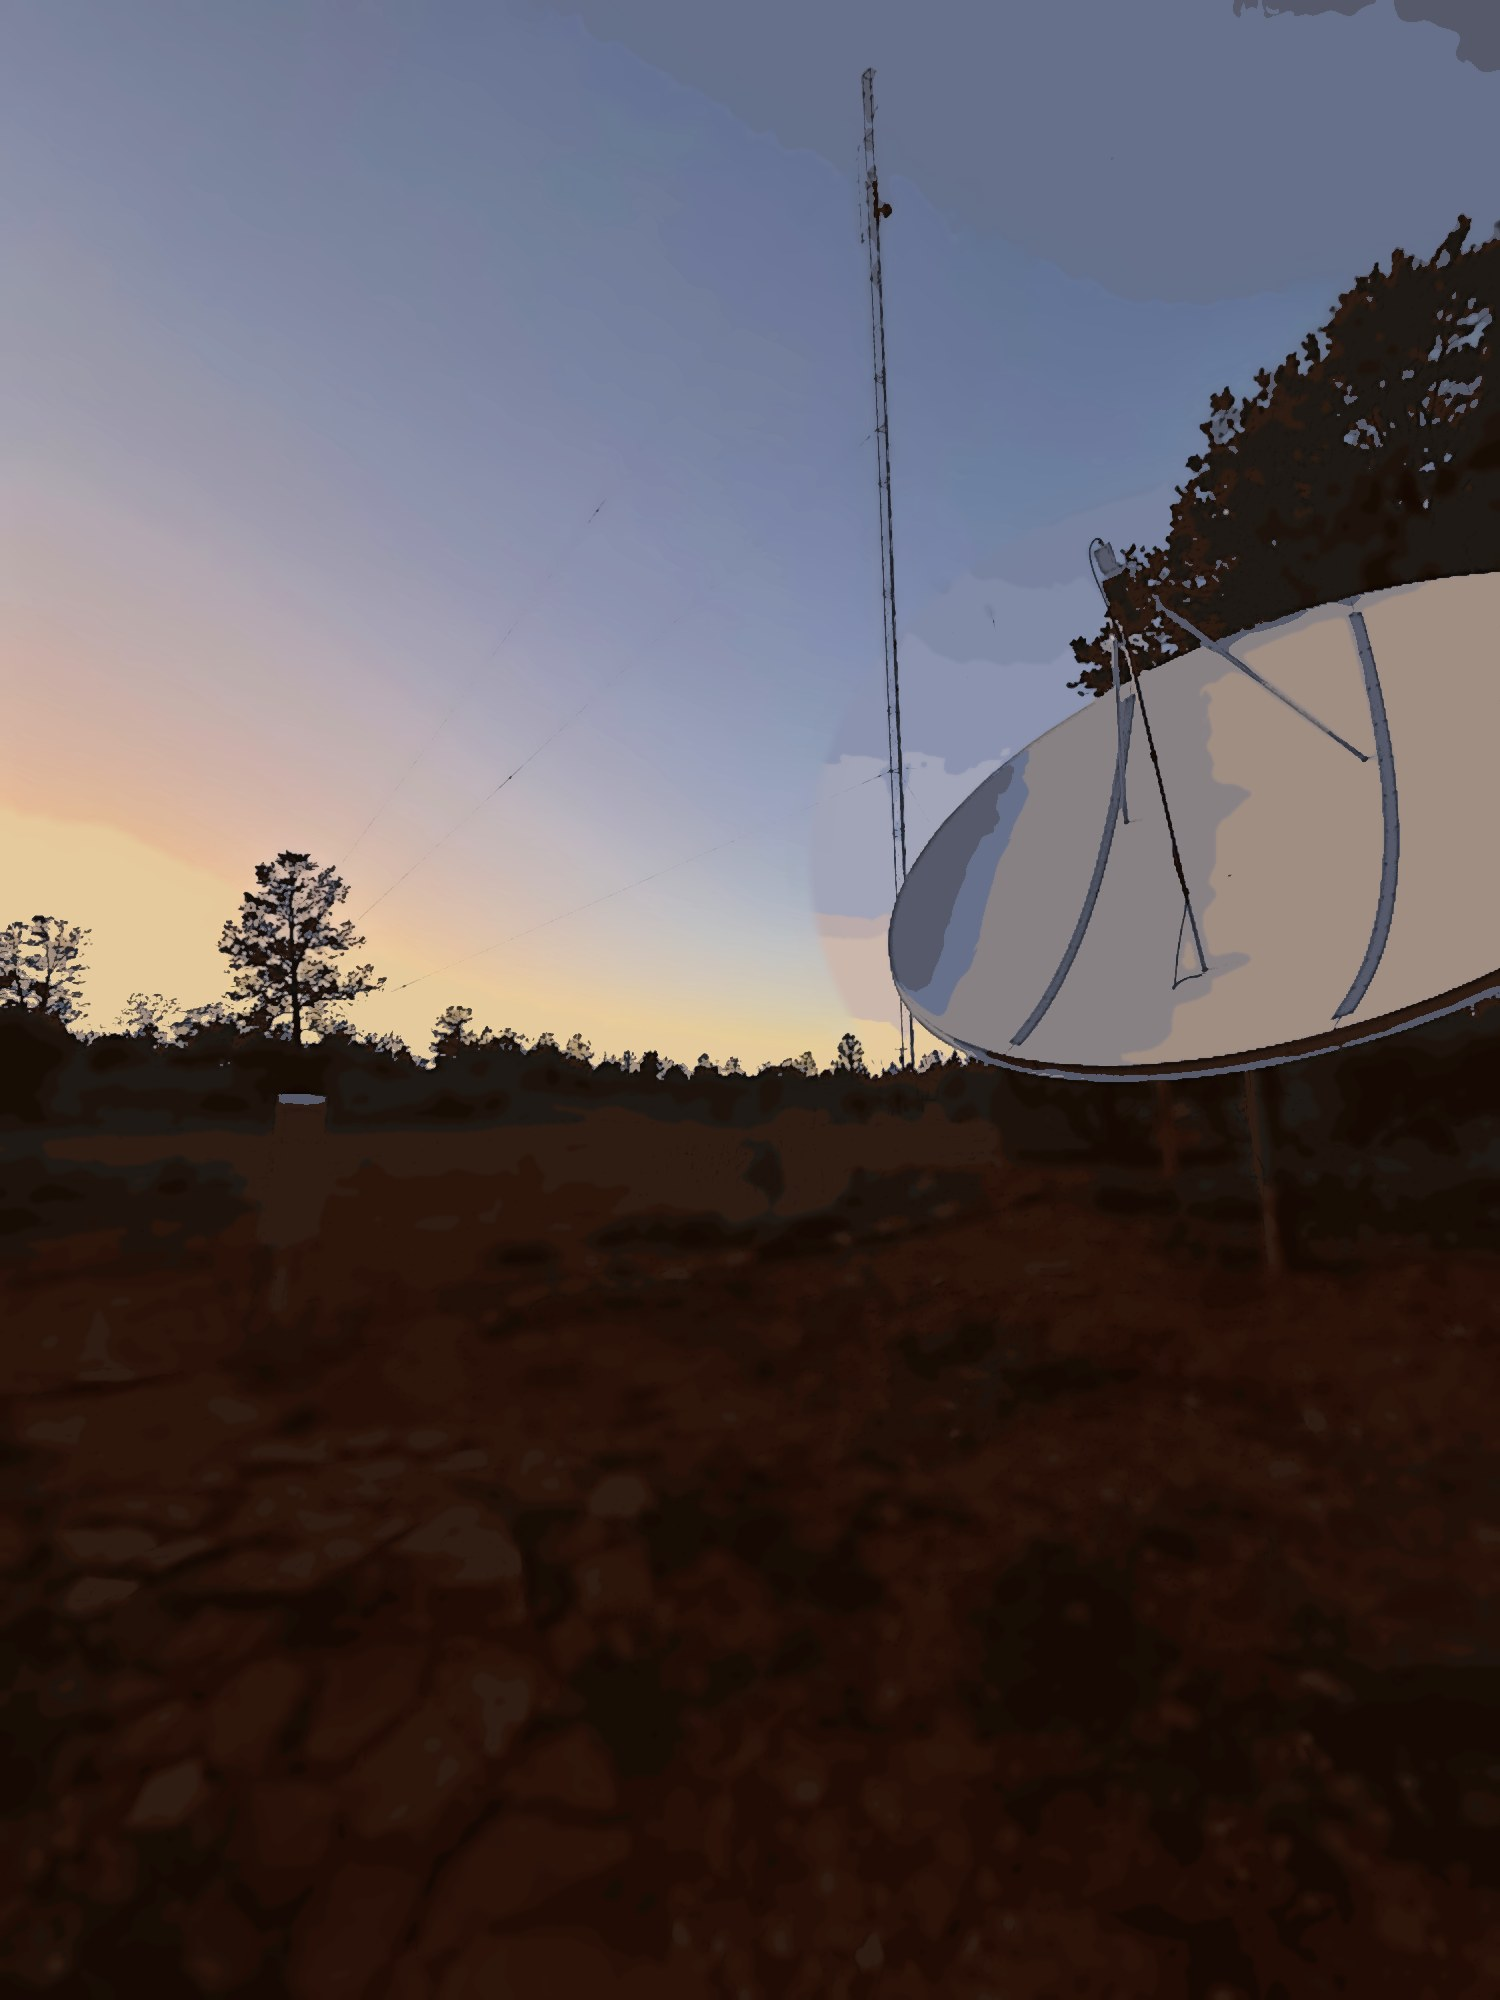
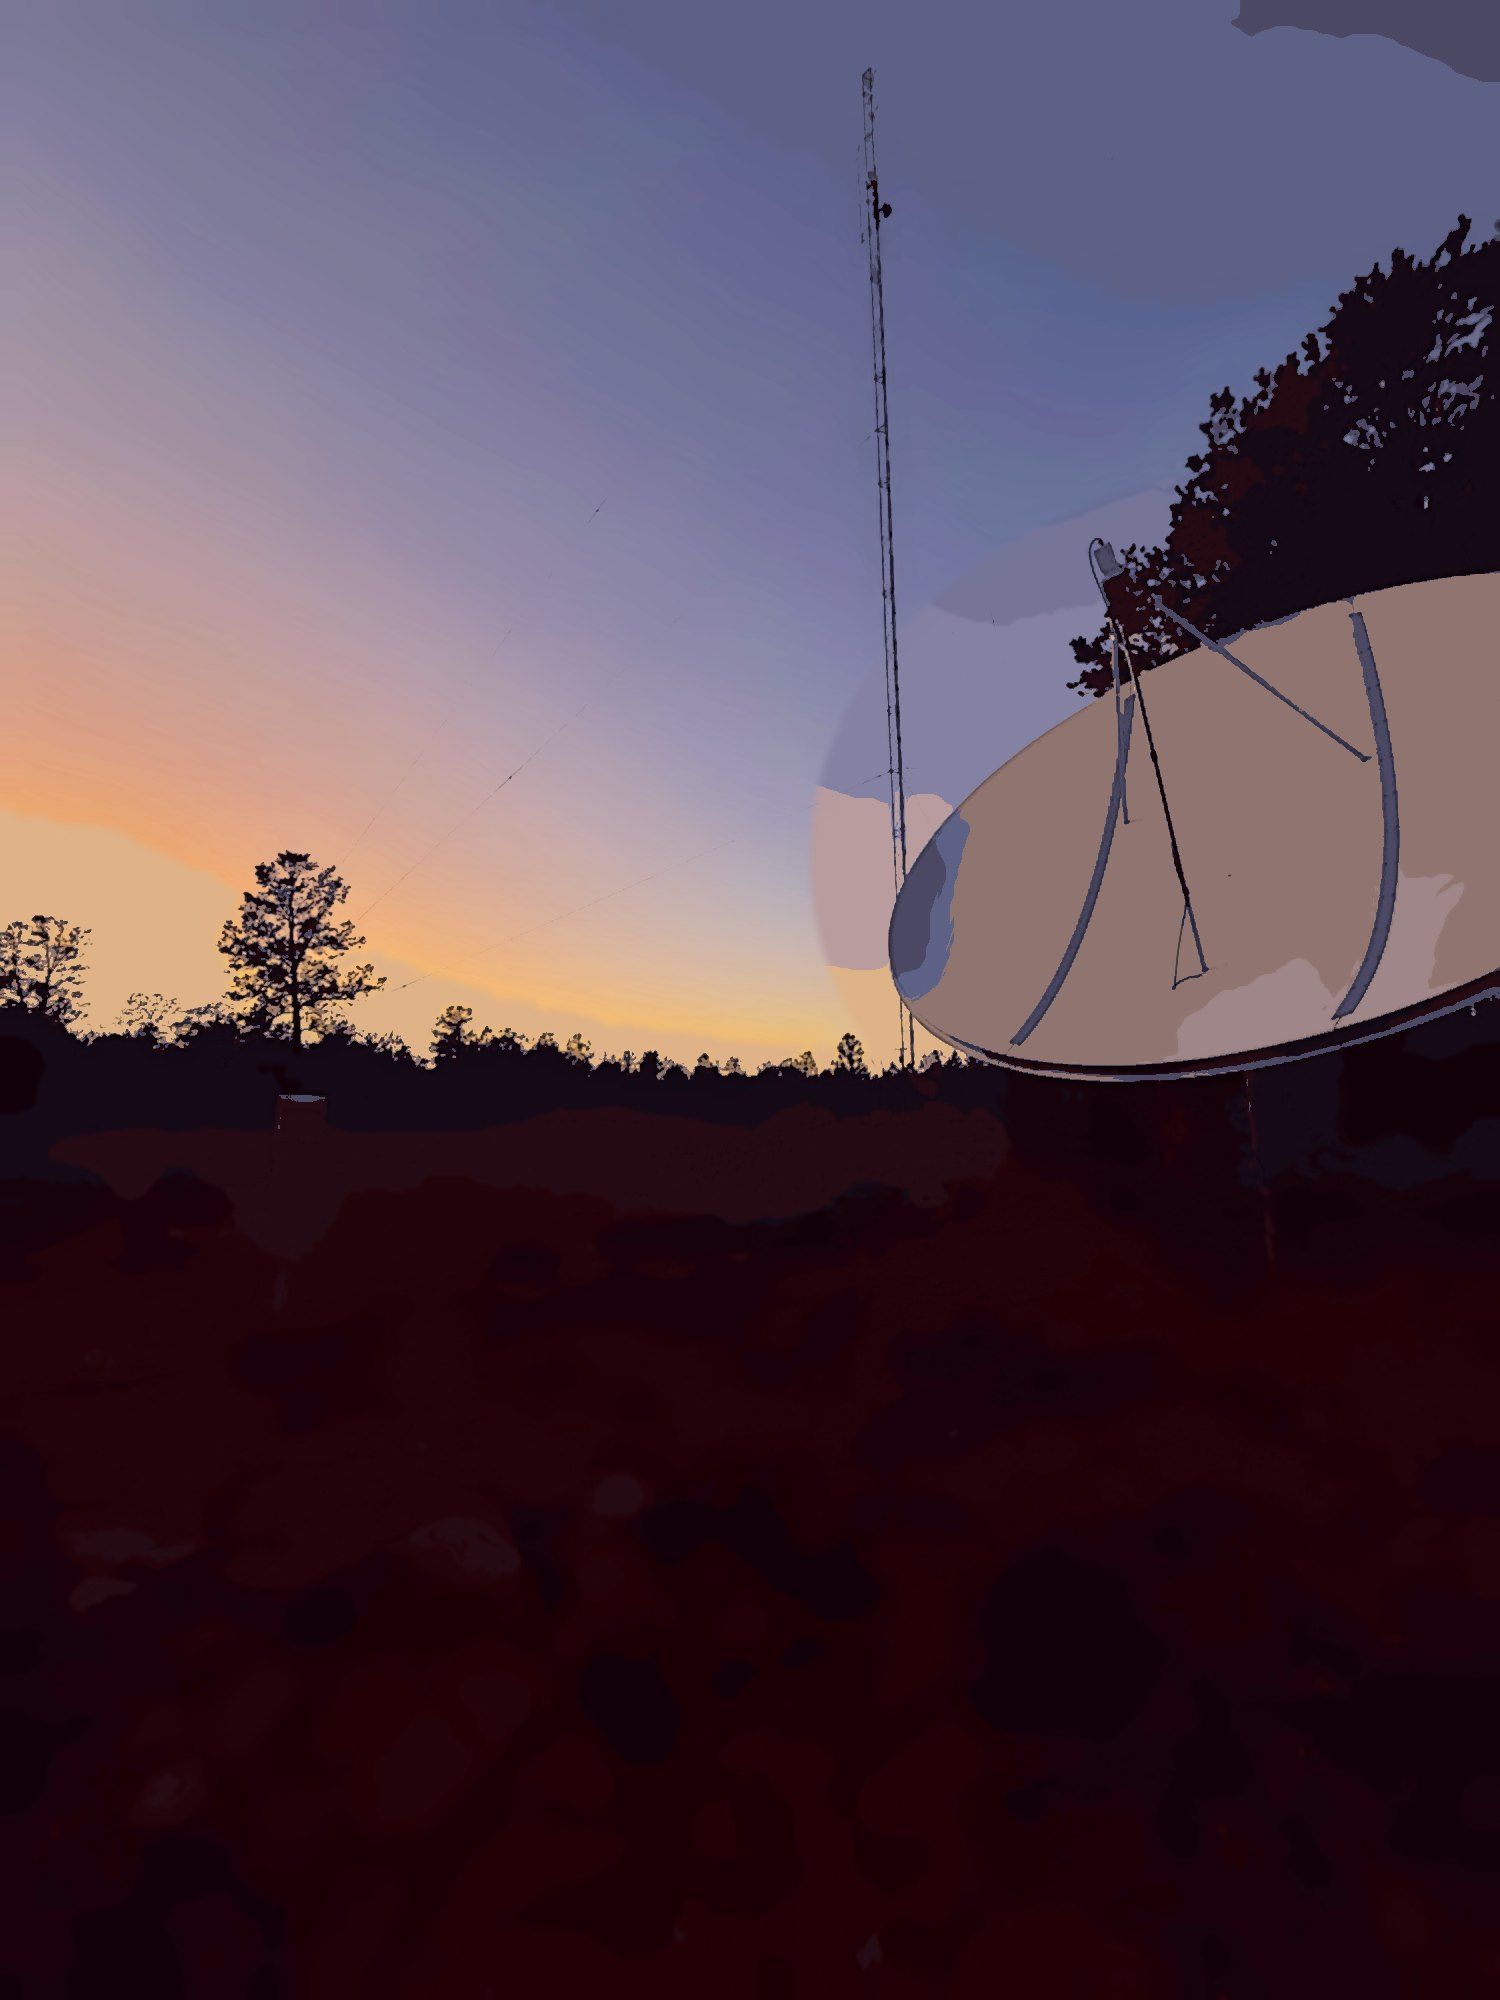
One painting, run by the sky — the chillhop grade lands
The window is a single painted plate now: the back-door dusk photograph
pushed through mean-shift paint chunking and a split-tone grade — violet
shadows, amber highlights, rich saturation — the record-sleeve look, one
frame, day and night. The real sun still grades the hours over it (day
lift softened so the paint keeps its color), the real weather still rains
and fogs and snows on it, the beacon still blinks, the plate still names
the song. The day plate is retired from rotation. Bump v61.

Claude-Session: https://claude.ai/code/session_017QdThLZDQPcXzAJ14drdMB

diff --git a/main.js b/main.js
@@ -2661,9 +2661,9 @@
     // midday frame while the sun is high.
     // the plates are PAINTED from the real photographs — the chillhop look,
     // the real yard: same framing, same masks, every live system still runs
+    // ONE painting. The real sun and the real weather do all the acting.
     var PLATES = [
-      { src: "paint-dusk.jpg", mk: "skymask-dusk.png", pool: "dusk", prim: 1, full: 1, hz: .72, beacon: [.583, .034], nightOk: 1, name: "the back door, painted" },
-      { src: "paint-day.jpg", mk: "skymask-day.png", pool: "day", prim: 1, hz: .66, name: "the back door in high sun, painted" }
+      { src: "paint-dusk.jpg", mk: "skymask-dusk.png", pool: "dusk", prim: 1, full: 1, hz: .72, beacon: [.583, .034], nightOk: 1, name: "the back door, painted" }
     ];
     function ensurePlate(p) {
       if (p.loading) return;
@@ -2842,8 +2842,8 @@
       if (alt > 8 && dayMix < 1) { // daylight lift — calibrated to the real midday frames (IMG_6128-31)
         var day = Math.min(1, (alt - 8) / 25) * (1 - dayMix);
         x.globalCompositeOperation = "screen";
-        x.fillStyle = "rgba(140,170,205," + (day * .38) + ")"; x.fillRect(0, 0, W, H);
-        x.fillStyle = "rgba(255,240,210," + (day * .15) + ")"; x.fillRect(0, 0, W, H);
+        x.fillStyle = "rgba(140,170,205," + (day * .24) + ")"; x.fillRect(0, 0, W, H);
+        x.fillStyle = "rgba(255,240,210," + (day * .08) + ")"; x.fillRect(0, 0, W, H);
         // re-deepen the lifted sky to Sedona's real saturated blue
         x.globalCompositeOperation = "multiply";
         var db = x.createLinearGradient(0, 0, 0, H * .55);
@@ -2872,7 +2872,7 @@
       if (alt > 0) {
         var flm = Math.min(1, alt / 20);
         x.globalCompositeOperation = "screen";
-        x.fillStyle = "rgba(18,14,26," + (.55 * flm) + ")"; x.fillRect(0, 0, W, H);
+        x.fillStyle = "rgba(18,14,26," + (.38 * flm) + ")"; x.fillRect(0, 0, W, H);
         x.globalCompositeOperation = "source-over";
       }
       // warm analog room tone + soft vignette — the record sounds like this

diff --git a/about.html b/about.html
@@ -22,7 +22,7 @@
   <link rel="preconnect" href="https://fonts.googleapis.com" />
   <link rel="preconnect" href="https://fonts.gstatic.com" crossorigin />
   <link href="https://fonts.googleapis.com/css2?family=Alice&family=Lato:ital,wght@0,300;0,400;0,700;0,900;1,400&display=swap" rel="stylesheet" />
-  <link rel="stylesheet" href="styles.css?v=60" />
+  <link rel="stylesheet" href="styles.css?v=61" />
 </head>
 <body data-page="about">
   <a class="skip-link" href="#main">Skip to content</a>
@@ -31,6 +31,6 @@
 <section class="page-hero"><div class="wrap"><p class="eyebrow">Since 1974</p><h1>About Mellow Mountain Radio</h1><p class="lead">KAZM is home to expert presenters and producers whose passion is keeping Sedona informed and entertained.</p><div class="page-hero-cta"><button class="btn btn-primary" data-listen aria-pressed="false"><svg viewBox="[phone redacted]" width="18" height="18" aria-hidden="true"><path d="M232.[phone redacted].6a16 [phone redacted].5v175.8a16 [phone redacted].5l144.1-87.9a15.[phone redacted]-27z"/></svg><span data-listen-label>Listen Live</span></button><a class="btn btn-ghost btn-ghost--light" href="contact.html">Contact us</a></div></div></section><section class="page-section"><div class="wrap two-col"><div class="prose"><h2>The sound of Sedona</h2><p>106.5 FM and 780 AM KAZM is home to expert presenters and producers whose passion is to keep Sedona entertained with shows that satisfy everyone. We pride ourselves in providing factual content that helps keep Sedona residents informed and educated throughout the day wherever they are.</p><p>Whether you are looking for the latest breaking news, local events, or sports, our station is the remedy to quench your curiosity. KAZM first signed on the air on November 1, 1974, and has been the valley's hometown signal ever since.</p></div><div class="card-grid" style="grid-template-columns:1fr;"><div class="info-card"><div class="info-ic" aria-hidden="true"><svg viewBox="[phone redacted]" width="22" height="22"><path d="M128 176a48 [phone redacted]-48V64a48 [phone redacted] 0v64a48 [phone redacted] 48Zm40-112v64a40 [phone redacted] 0V64a40 [phone redacted] 0Zm40 64a8 [phone redacted]-[phone redacted] [phone redacted] 0Z"/></svg></div><h3>Full-service radio</h3><p>News, sports, weather, and the music Sedona grew up with.</p></div><div class="info-card"><div class="info-ic" aria-hidden="true"><svg viewBox="[phone redacted]" width="22" height="22"><path d="M208 32h-24v-8a8 8 0 0 0-16 0v8H88v-8a8 8 0 0 0-16 0v8H48a16 [phone redacted] 16v160a16 [phone redacted] 16h160a16 [phone redacted]-16V48a16 [phone redacted]-16Zm0 176H48V96h160Z"/></svg></div><h3>On air since 1974</h3><p>Fifty years on the dial, and still mellow.</p></div></div></div></div></section><section class="heritage"><div class="wrap heritage-inner"><div class="heritage-mark" data-logo-rotator role="img" aria-label="The KAZM logo through the years"><img class="heritage-logo" src="heritage-1974.webp" alt="" data-era="1974" aria-hidden="true" loading="lazy" width="420" height="420" /><img class="heritage-logo" src="heritage-1980s.webp" alt="" data-era="1980s" aria-hidden="true" loading="lazy" width="420" height="420" /><img class="heritage-logo is-active" src="White%20logo%20-%20no%20background.svg" alt="" data-era="Today" aria-hidden="true" /><span class="heritage-era" data-era-label>Today</span></div><div class="heritage-copy"><h2 id="heritage-title">Fifty years on the dial, and still mellow</h2><p>KAZM signed on November 1, 1974, and has been Sedona's hometown signal ever since. Same easy sound, same valley, now streaming everywhere you are.</p></div></div></section><section class="page-section page-section--tint"><div class="wrap"><div class="section-head"><h2>The many moods of the mountain</h2><p class="lead">The brand art from the redesign &mdash; one station, a few states of mind.</p></div><div class="moods-hero"><img src="campaign-broadcast.webp" alt="KAZM microphone and headphones banner" loading="lazy" width="900" height="506" /></div><div class="moods-grid"><figure class="mood"><img src="campaign-firepit.webp" alt="KAZM firepit mark" loading="lazy" width="480" height="480" /><figcaption>Around the fire</figcaption></figure><figure class="mood"><img src="campaign-yoga.webp" alt="KAZM meditation mark" loading="lazy" width="480" height="721" /><figcaption>The mellow side</figcaption></figure><figure class="mood"><img src="campaign-neon.webp" alt="KAZM neon logo" loading="lazy" width="480" height="480" /><figcaption>After dark</figcaption></figure><figure class="mood"><img src="campaign-retro.webp" alt="Vintage KAZM 780 Sedona wordmark" loading="lazy" width="480" height="480" /><figcaption>Est. 1974</figcaption></figure></div></div></section><section class="partners"><div class="wrap"><div class="section-head section-head--center"><h2>Friends &amp; partners of Mellow Mountain Radio</h2><p class="lead">The local businesses and partners who keep us on the air.</p></div><ul class="partner-grid"><li class="partner-lead"><img src="Color%20logo%20-%20no%20background.svg" alt="KAZM Mellow Mountain Radio" /></li><li><a href="#">Sedona Public Library</a></li><li><a href="#">Sedona Chamber of Commerce</a></li><li><a href="#">Versatile Roofing</a></li><li><a href="#">Yavapai Bottle Gas</a></li><li><a href="#">Nick's Westside</a></li><li><a href="#">Sedona Yoga Festival</a></li><li class="partner-cta"><a href="advertising.html">Your business here</a></li></ul></div></section>
   </main>
   <div data-site-footer></div>
-  <script src="main.js?v=60" defer></script>
+  <script src="main.js?v=61" defer></script>
 </body>
 </html>

diff --git a/advertising.html b/advertising.html
@@ -22,7 +22,7 @@
   <link rel="preconnect" href="https://fonts.googleapis.com" />
   <link rel="preconnect" href="https://fonts.gstatic.com" crossorigin />
   <link href="https://fonts.googleapis.com/css2?family=Alice&family=Lato:ital,wght@0,300;0,400;0,700;0,900;1,400&display=swap" rel="stylesheet" />
-  <link rel="stylesheet" href="styles.css?v=60" />
+  <link rel="stylesheet" href="styles.css?v=61" />
 </head>
 <body data-page="about">
   <a class="skip-link" href="#main">Skip to content</a>
@@ -31,6 +31,6 @@
 <section class="page-hero"><div class="wrap"><p class="eyebrow">Advertising</p><h1>Be the voice local listeners trust</h1><p class="lead">Sedona, the Verde Valley, and travelers from all over hear KAZM every day. Put your business on the air with the station this community grew up with.</p><div class="page-hero-cta"><a class="btn btn-primary" href="tel:[phone redacted]"><svg viewBox="[phone redacted]" width="20" height="20"><path d="m222.[phone redacted].4a16 [phone redacted].4l-22 14.7a4 4 0 0 1-3.8.2c-[phone redacted]-35.8a4 4 0 0 1 .2-3.8l14.7-22.4a16 [phone redacted].2L98.8 9.6A16 [phone redacted] .[phone redacted] 56c0 [phone redacted] 184a56.[phone redacted] [phone redacted].8Z"/></svg> Talk to our team</a><a class="btn btn-ghost btn-ghost--light" href="mailto:[email redacted]">Email a brief</a></div></div></section><section class="page-section"><div class="wrap"><div class="section-head"><h2>Why radio still wins</h2><p class="lead">Despite the noise of online advertising, radio remains one of the most effective, trusted, and local ways to reach an audience.</p></div><div class="ad-stats"><div class="ad-stat"><div class="ad-stat-num">$15.8B</div><div class="ad-stat-label">U.S. radio advertising revenue in 2023, over $3B more than in 2020.</div></div><div class="ad-stat"><div class="ad-stat-num">91%</div><div class="ad-stat-label">of Americans 18+ are reached by radio each week, more than smartphones or laptops.</div></div><div class="ad-stat"><div class="ad-stat-num">88%</div><div class="ad-stat-label">of Americans listen to ad-supported radio inside the car.</div></div><div class="ad-stat"><div class="ad-stat-num">64%</div><div class="ad-stat-label">consider radio trustworthy, higher than cable TV and far above social media.</div></div><div class="ad-stat"><div class="ad-stat-num">87%</div><div class="ad-stat-label">of listeners say radio's biggest advantage is its local feel.</div></div><div class="ad-stat"><div class="ad-stat-num">58%</div><div class="ad-stat-label">more time spent with ad-supported radio than ad-supported podcasts.</div></div></div></div></section><section class="page-section page-section--tint"><div class="wrap two-col"><div class="prose"><h2>Local, trusted, and on all day</h2><p>KAZM reaches Sedona and the Verde Valley on 106.5 FM and 780 AM, plus a growing streaming audience everywhere. Your message runs alongside the news, sports, and music this community already trusts.</p><p>From a single sponsored feature like the 3 O'Clock Three Pack to a full campaign, we will build something that fits your business and your budget.</p></div><div class="info-card"><div class="info-ic" aria-hidden="true"><svg viewBox="[phone redacted]" width="22" height="22"><path d="M164 32a12 [phone redacted] 1-76 76H40a16 [phone redacted] 16v32a16 [phone redacted] 16h12l16 60a8 8 0 0 0 7.7 6h24a8 [phone redacted].1L110 192a76 [phone redacted] [phone redacted]-12V44a12 [phone redacted]-12Z"/></svg></div><h3>Start a conversation</h3><p>Call <a class="prose" style="color:var(--accent-strong)" href="tel:[phone redacted]">[phone redacted]</a> or email <a class="prose" style="color:var(--accent-strong)" href="mailto:[email redacted]">[email redacted]</a> and we will put together a plan.</p></div></div></div></section>
   </main>
   <div data-site-footer></div>
-  <script src="main.js?v=60" defer></script>
+  <script src="main.js?v=61" defer></script>
 </body>
 </html>

diff --git a/archives.html b/archives.html
@@ -22,7 +22,7 @@
   <link rel="preconnect" href="https://fonts.googleapis.com" />
   <link rel="preconnect" href="https://fonts.gstatic.com" crossorigin />
   <link href="https://fonts.googleapis.com/css2?family=Alice&family=Lato:ital,wght@0,300;0,400;0,700;0,900;1,400&display=swap" rel="stylesheet" />
-  <link rel="stylesheet" href="styles.css?v=60" />
+  <link rel="stylesheet" href="styles.css?v=61" />
 </head>
 <body data-page="about">
   <a class="skip-link" href="#main">Skip to content</a>
@@ -268,6 +268,6 @@
 </div></section>
   </main>
   <div data-site-footer></div>
-  <script src="main.js?v=60" defer></script>
+  <script src="main.js?v=61" defer></script>
 </body>
 </html>

diff --git a/chakras.html b/chakras.html
@@ -22,7 +22,7 @@
   <link rel="preconnect" href="https://fonts.googleapis.com" />
   <link rel="preconnect" href="https://fonts.gstatic.com" crossorigin />
   <link href="https://fonts.googleapis.com/css2?family=Alice&family=Lato:ital,wght@0,300;0,400;0,700;0,900;1,400&display=swap" rel="stylesheet" />
-  <link rel="stylesheet" href="styles.css?v=60" />
+  <link rel="stylesheet" href="styles.css?v=61" />
 </head>
 <body data-page="vibe">
   <a class="skip-link" href="#main">Skip to content</a>
@@ -42,6 +42,6 @@
 </div></section>
   </main>
   <div data-site-footer></div>
-  <script src="main.js?v=60" defer></script>
+  <script src="main.js?v=61" defer></script>
 </body>
 </html>

diff --git a/concerts.html b/concerts.html
@@ -22,7 +22,7 @@
   <link rel="preconnect" href="https://fonts.googleapis.com" />
   <link rel="preconnect" href="https://fonts.gstatic.com" crossorigin />
   <link href="https://fonts.googleapis.com/css2?family=Alice&family=Lato:ital,wght@0,300;0,400;0,700;0,900;1,400&display=swap" rel="stylesheet" />
-  <link rel="stylesheet" href="styles.css?v=60" />
+  <link rel="stylesheet" href="styles.css?v=61" />
 </head>
 <body data-page="concerts">
   <a class="skip-link" href="#main">Skip to content</a>
@@ -31,6 +31,6 @@
 <section class="page-hero"><div class="wrap"><p class="eyebrow">Live music</p><h1>The mellow side, live on stage</h1><p class="lead">Tour dates for the yacht rock and soft-rock artists in heavy rotation on KAZM — when they roll through Arizona and beyond, you'll find the date and tickets right here.</p><div class="page-hero-cta"><button class="btn btn-primary" data-listen aria-pressed="false"><svg viewBox="0 0 256 256" width="18" height="18" aria-hidden="true"><path d="M232.4 114.5 88.3 26.6a16 16 0 0 0-24.3 13.5v175.8a16 16 0 0 0 24.3 13.5l144.1-87.9a15.9 15.9 0 0 0 0-27z"/></svg><span data-listen-label>Listen Live</span></button></div></div></section><section class="page-section"><div class="wrap"><div class="section-head"><h2>Coming up</h2><p class="lead">Upcoming shows from the artists who define the sound &mdash; Arizona dates first, then soonest across the Southwest.</p></div><div class="concert-list" data-concerts></div></div></section><section class="page-section page-section--tint"><div class="wrap"><div class="section-head"><h2>Festivals</h2><p class="lead">Multi-day music festivals across the Southwest &mdash; Arizona first.</p></div><div data-festivals></div></div></section>
   </main>
   <div data-site-footer></div>
-  <script src="main.js?v=60" defer></script>
+  <script src="main.js?v=61" defer></script>
 </body>
 </html>

diff --git a/contact.html b/contact.html
@@ -22,7 +22,7 @@
   <link rel="preconnect" href="https://fonts.googleapis.com" />
   <link rel="preconnect" href="https://fonts.gstatic.com" crossorigin />
   <link href="https://fonts.googleapis.com/css2?family=Alice&family=Lato:ital,wght@0,300;0,400;0,700;0,900;1,400&display=swap" rel="stylesheet" />
-  <link rel="stylesheet" href="styles.css?v=60" />
+  <link rel="stylesheet" href="styles.css?v=61" />
 </head>
 <body data-page="about">
   <a class="skip-link" href="#main">Skip to content</a>
@@ -31,6 +31,6 @@
 <section class="page-hero"><div class="wrap"><p class="eyebrow">Get in touch</p><h1>Studio doors are always open</h1><p class="lead">Song requests, story tips, or just to say hello from the trail. Here is how to reach the mountain.</p><div class="page-hero-cta"><button class="btn btn-primary" data-listen aria-pressed="false"><svg viewBox="[phone redacted]" width="18" height="18" aria-hidden="true"><path d="M232.[phone redacted].6a16 [phone redacted].5v175.8a16 [phone redacted].5l144.1-87.9a15.[phone redacted]-27z"/></svg><span data-listen-label>Listen Live</span></button><a class="btn btn-ghost btn-ghost--light" href="tel:[phone redacted]">Request line: [phone redacted]</a></div></div></section><section class="page-section"><div class="wrap two-col"><div><h2 style="margin-bottom:18px;">Send us a note</h2><form class="contact-form" action="mailto:[email redacted]" method="post" enctype="text/plain"><div class="field"><label for="cf-name">Your name</label><input id="cf-name" name="Name" type="text" required></div><div class="field"><label for="cf-email">Email</label><input id="cf-email" name="Email" type="email" required></div><div class="field"><label for="cf-topic">Topic</label><select id="cf-topic" name="Topic"><option>Song request</option><option>Story tip</option><option>Advertising</option><option>General</option></select></div><div class="field"><label for="cf-msg">Message</label><textarea id="cf-msg" name="Message" required></textarea></div><button class="btn btn-primary" type="submit">Send message</button></form></div><div class="card-grid" style="grid-template-columns:1fr;"><div class="info-card"><div class="info-ic" aria-hidden="true"><svg viewBox="[phone redacted]" width="20" height="20"><path d="m222.[phone redacted].4a16 [phone redacted].4l-22 14.7a4 4 0 0 1-3.8.2c-[phone redacted]-35.8a4 4 0 0 1 .2-3.8l14.7-22.4a16 [phone redacted].2L98.8 9.6A16 [phone redacted] .[phone redacted] 56c0 [phone redacted] 184a56.[phone redacted] [phone redacted].8Z"/></svg></div><h3>Studio line</h3><p><a class="prose" style="color:var(--accent-strong)" href="tel:[phone redacted]">[phone redacted]</a></p></div><div class="info-card"><div class="info-ic" aria-hidden="true"><svg viewBox="[phone redacted]" width="20" height="20"><path d="m222.[phone redacted].4a16 [phone redacted].4l-22 14.7a4 4 0 0 1-3.8.2c-[phone redacted]-35.8a4 4 0 0 1 .2-3.8l14.7-22.4a16 [phone redacted].2L98.8 9.6A16 [phone redacted] .[phone redacted] 56c0 [phone redacted] 184a56.[phone redacted] [phone redacted].8Z"/></svg></div><h3>Song request line</h3><p><a class="prose" style="color:var(--accent-strong)" href="tel:[phone redacted]">[phone redacted]</a></p></div><div class="info-card"><div class="info-ic" aria-hidden="true"><svg viewBox="[phone redacted]" width="20" height="20"><path d="M224 48H32a8 8 0 0 0-8 8v136a16 [phone redacted] 16h176a16 [phone redacted]-16V56a8 8 0 0 0-8-8Zm-96 85.1L52.5 64h151Z"/></svg></div><h3>Email</h3><p><a class="prose" style="color:var(--accent-strong)" href="mailto:[email redacted]">[email redacted]</a></p></div><div class="info-card"><div class="info-ic" aria-hidden="true"><svg viewBox="[phone redacted]" width="20" height="20"><path d="M128 16a88.[phone redacted] 88c0 [phone redacted].6a8 8 0 0 0 9.2 0C136 [phone redacted] 104a88.[phone redacted]-88Zm0 56a32 [phone redacted] 1 32-32Z"/></svg></div><h3>Studio</h3><p>3400 W State Route 89A, Sedona, AZ 86336</p><p>Mailing: 3120 W Carefree Highway, Suite 1-630, Phoenix, AZ 85086</p></div></div></div></div></section><section class="page-section page-section--tint"><div class="wrap"><div class="embed-frame"><iframe title="KAZM studio map" src="https://www.google.com/maps?q=3400+W+State+Route+89A+Sedona+AZ+86336&output=embed" loading="lazy" style="height:420px"></iframe></div></div></section>
   </main>
   <div data-site-footer></div>
-  <script src="main.js?v=60" defer></script>
+  <script src="main.js?v=61" defer></script>
 </body>
 </html>

diff --git a/contests.html b/contests.html
@@ -22,7 +22,7 @@
   <link rel="preconnect" href="https://fonts.googleapis.com" />
   <link rel="preconnect" href="https://fonts.gstatic.com" crossorigin />
   <link href="https://fonts.googleapis.com/css2?family=Alice&family=Lato:ital,wght@0,300;0,400;0,700;0,900;1,400&display=swap" rel="stylesheet" />
-  <link rel="stylesheet" href="styles.css?v=60" />
+  <link rel="stylesheet" href="styles.css?v=61" />
 </head>
 <body data-page="music">
   <a class="skip-link" href="#main">Skip to content</a>
@@ -31,6 +31,6 @@
 <section class="page-hero"><div class="wrap"><p class="eyebrow">Win with KAZM</p><h1>Contests &amp; giveaways</h1><p class="lead">Tickets, dinners, and more for the Sedona faithful. Keep it locked on 106.5 and 780 to play along.</p><div class="page-hero-cta"><button class="btn btn-primary" data-listen aria-pressed="false"><svg viewBox="0 0 256 256" width="18" height="18" aria-hidden="true"><path d="M232.4 114.5 88.3 26.6a16 16 0 0 0-24.3 13.5v175.8a16 16 0 0 0 24.3 13.5l144.1-87.9a15.9 15.9 0 0 0 0-27z"/></svg><span data-listen-label>Listen Live</span></button></div></div></section><section class="page-section"><div class="wrap"><div class="card-grid"><div class="info-card"><div class="info-ic" aria-hidden="true"><svg viewBox="0 0 256 256" width="22" height="22"><path d="M232 104a8 8 0 0 0 8-8V64a16 16 0 0 0-16-16H32a16 16 0 0 0-16 16v32a8 8 0 0 0 8 8 24 24 0 0 1 0 48 8 8 0 0 0-8 8v32a16 16 0 0 0 16 16h192a16 16 0 0 0 16-16v-32a8 8 0 0 0-8-8 24 24 0 0 1 0-48Z"/></svg></div><h3>Ticket Tuesday</h3><p>Your shot at tickets to the shows and games around Arizona, every Tuesday.</p></div><div class="info-card"><div class="info-ic" aria-hidden="true"><svg viewBox="0 0 256 256" width="22" height="22"><path d="M72 24a8 8 0 0 0-16 0v40a16 16 0 0 0 8 13.9V232a8 8 0 0 0 16 0V77.9A16 16 0 0 0 88 64V24a8 8 0 0 0-16 0v40h-8V24Zm112 0a40 40 0 0 0-40 40c0 18 12 33.1 28 38.4V232a8 8 0 0 0 16 0V102.4c16-5.3 28-20.4 28-38.4a40 40 0 0 0-32-38.4Z"/></svg></div><h3>Food Fridays</h3><p>A taste of the Verde Valley, with giveaways from local kitchens every Friday.</p></div><div class="info-card"><div class="info-ic" aria-hidden="true"><svg viewBox="0 0 256 256" width="22" height="22"><path d="M208 32h-24v-8a8 8 0 0 0-16 0v8H88v-8a8 8 0 0 0-16 0v8H48a16 16 0 0 0-16 16v160a16 16 0 0 0 16 16h160a16 16 0 0 0 16-16V48a16 16 0 0 0-16-16Zm0 176H48V96h160Z"/></svg></div><h3>3 O'Clock Three Pack</h3><p>Listen at three for the daily artist set, presented by a local sponsor.</p></div></div><p class="embed-note">Official contest rules available on request. Must be 18 or older to win.</p></div></section>
   </main>
   <div data-site-footer></div>
-  <script src="main.js?v=60" defer></script>
+  <script src="main.js?v=61" defer></script>
 </body>
 </html>

diff --git a/events.html b/events.html
@@ -22,7 +22,7 @@
   <link rel="preconnect" href="https://fonts.googleapis.com" />
   <link rel="preconnect" href="https://fonts.gstatic.com" crossorigin />
   <link href="https://fonts.googleapis.com/css2?family=Alice&family=Lato:ital,wght@0,300;0,400;0,700;0,900;1,400&display=swap" rel="stylesheet" />
-  <link rel="stylesheet" href="styles.css?v=60" />
+  <link rel="stylesheet" href="styles.css?v=61" />
 </head>
 <body data-page="events">
   <a class="skip-link" href="#main">Skip to content</a>
@@ -87,6 +87,6 @@
 <section class="page-section page-section--tint" id="photography"><div class="wrap"><div class="section-head"><h2>📷 Photography</h2><p class="lead">The live light console, tonight&rsquo;s sunset score, the astro window, and the best photo spots now have a whole page of their own.</p></div><p><a class="btn btn-primary" href="photography.html">Open the Photography page &rarr;</a></p></div></section><section class="page-section" id="geocaching"><div class="wrap"><div class="section-head"><h2>🧭 Geocaching</h2><p class="lead">Red rock country hides hundreds of caches &mdash; ammo cans in the junipers, micros on the mesas, earthcaches that teach the geology under your boots. Bring a GPS, a pen, and the cacher&rsquo;s creed: take something, leave something, sign the log.</p></div><p class="gc-links">The real maps: <a href="https://www.geocaching.com/play/map?lat=34.8697&amp;lng=-111.761&amp;zoom=12" target="_blank" rel="noopener">geocaching.com around Sedona &rarr;</a> &nbsp;&middot;&nbsp; <a href="https://www.opencaching.us" target="_blank" rel="noopener">opencaching.us &rarr;</a></p><div class="section-subhead"><h3>📻 The KAZM Signal Hunt</h3><p>Our own open hunt, no login required: five public landmarks, real coordinates in cacher&rsquo;s format. Visit all five, snap a photo at each, and <a href="contact.html">send the set to the station</a> &mdash; we&rsquo;ll give you your shoutout on the air. Tap <b>range me</b> and your actual GPS position ranges every waypoint, distance and bearing, like a proper GPSr.</p></div><div class="gc-progress" data-gc-progress></div><p><button class="btn btn-primary" data-gc-locate>📡 Range me</button></p><div class="gc-nav" data-gc-nav hidden></div><div class="gc-grid" data-geocache></div><div class="gc-certwrap" data-gc-cert hidden></div><div class="gc-map" data-geocache-map></div><div class="gc-code-card"><span class="gc-code-h">🌵 The desert cacher&rsquo;s code</span><ul><li>Never reach where you can&rsquo;t see &mdash; rattlesnakes shade up under the same rocks caches do.</li><li>Stay on the slickrock and washes; the black crust on the soil is alive and takes decades to regrow.</li><li>Summer caching is dawn-and-dusk caching. The Wild Hour rule applies to humans too.</li><li>Cache In, Trash Out &mdash; pack out more than you brought.</li><li>Waypoint coordinates are for public landmarks and viewpoints; park legally and respect closures.</li></ul></div></div></section>
   </main>
   <div data-site-footer></div>
-  <script src="main.js?v=60" defer></script>
+  <script src="main.js?v=61" defer></script>
 </body>
 </html>

diff --git a/firstpeoples.html b/firstpeoples.html
@@ -22,7 +22,7 @@
   <link rel="preconnect" href="https://fonts.googleapis.com" />
   <link rel="preconnect" href="https://fonts.gstatic.com" crossorigin />
   <link href="https://fonts.googleapis.com/css2?family=Alice&family=Lato:ital,wght@0,300;0,400;0,700;0,900;1,400&display=swap" rel="stylesheet" />
-  <link rel="stylesheet" href="styles.css?v=60" />
+  <link rel="stylesheet" href="styles.css?v=61" />
 </head>
 <body data-page="about">
   <a class="skip-link" href="#main">Skip to content</a>
@@ -90,6 +90,6 @@
 </div>
   </main>
   <div data-site-footer></div>
-  <script src="main.js?v=60" defer></script>
+  <script src="main.js?v=61" defer></script>
 </body>
 </html>

diff --git a/horoscope.html b/horoscope.html
@@ -22,7 +22,7 @@
   <link rel="preconnect" href="https://fonts.googleapis.com" />
   <link rel="preconnect" href="https://fonts.gstatic.com" crossorigin />
   <link href="https://fonts.googleapis.com/css2?family=Alice&family=Lato:ital,wght@0,300;0,400;0,700;0,900;1,400&display=swap" rel="stylesheet" />
-  <link rel="stylesheet" href="styles.css?v=60" />
+  <link rel="stylesheet" href="styles.css?v=61" />
 </head>
 <body data-page="vibe">
   <a class="skip-link" href="#main">Skip to content</a>
@@ -56,6 +56,6 @@
 </div></section>
   </main>
   <div data-site-footer></div>
-  <script src="main.js?v=60" defer></script>
+  <script src="main.js?v=61" defer></script>
 </body>
 </html>

diff --git a/index.html b/index.html
@@ -26,7 +26,7 @@
   <link rel="preconnect" href="https://fonts.gstatic.com" crossorigin />
   <link href="https://fonts.googleapis.com/css2?family=Alice&family=Lato:ital,wght@0,300;0,400;0,700;0,900;1,400&display=swap" rel="stylesheet" />
 
-  <link rel="stylesheet" href="styles.css?v=60" />
+  <link rel="stylesheet" href="styles.css?v=61" />
   <script type="application/ld+json">{"@context":"https://schema.org","@graph":[{"@type":"RadioStation","@id":"https://mellowmountainradio.com/#station","name":"KAZM Mellow Mountain Radio","alternateName":"KAZM 106.5 FM & 780 AM","url":"https://mellowmountainradio.com/","logo":"https://mellowmountainradio.com/Color%20logo%20with%20background.png","image":"https://mellowmountainradio.com/Color%20logo%20with%20background.png","description":"Soft oldies and yacht rock for Sedona and the Verde Valley since 1974 — live news, sports, cosmic conditions and more on 106.5 FM and 780 AM.","address":{"@type":"PostalAddress","addressLocality":"Sedona","addressRegion":"AZ","addressCountry":"US"},"areaServed":["Sedona AZ","Verde Valley AZ","Cottonwood AZ","Camp Verde AZ","Flagstaff AZ"],"foundingDate":"1974","parentOrganization":{"@type":"Organization","name":"Cutter Grind Broadcasting LLC"},"sameAs":["https://www.facebook.com/profile.php?id=61552335103946","https://www.instagram.com/mellowmountainradio/","https://www.youtube.com/channel/UCt3gbxEFSkV8roRdnqBefog","https://twitter.com/mellowmountain1","https://publicfiles.fcc.gov/am-profile/KAZM"]},{"@type":"BroadcastService","@id":"https://mellowmountainradio.com/#broadcast","name":"KAZM Live Stream","broadcastDisplayName":"KAZM Mellow Mountain Radio","broadcastFrequency":[{"@type":"BroadcastFrequencySpecification","broadcastFrequencyValue":"106.5","broadcastSignalType":"FM"},{"@type":"BroadcastFrequencySpecification","broadcastFrequencyValue":"780","broadcastSignalType":"AM"}],"provider":{"@id":"https://mellowmountainradio.com/#station"},"url":"https://mellowmountainradio.com/"},{"@type":"WebSite","@id":"https://mellowmountainradio.com/#website","url":"https://mellowmountainradio.com/","name":"KAZM Mellow Mountain Radio","publisher":{"@id":"https://mellowmountainradio.com/#station"}}]}</script>
 </head>
 <body data-page="home">
@@ -232,6 +232,6 @@
     </section>
   </main>
   <div data-site-footer></div>
-  <script src="main.js?v=60" defer></script>
+  <script src="main.js?v=61" defer></script>
 </body>
 </html>